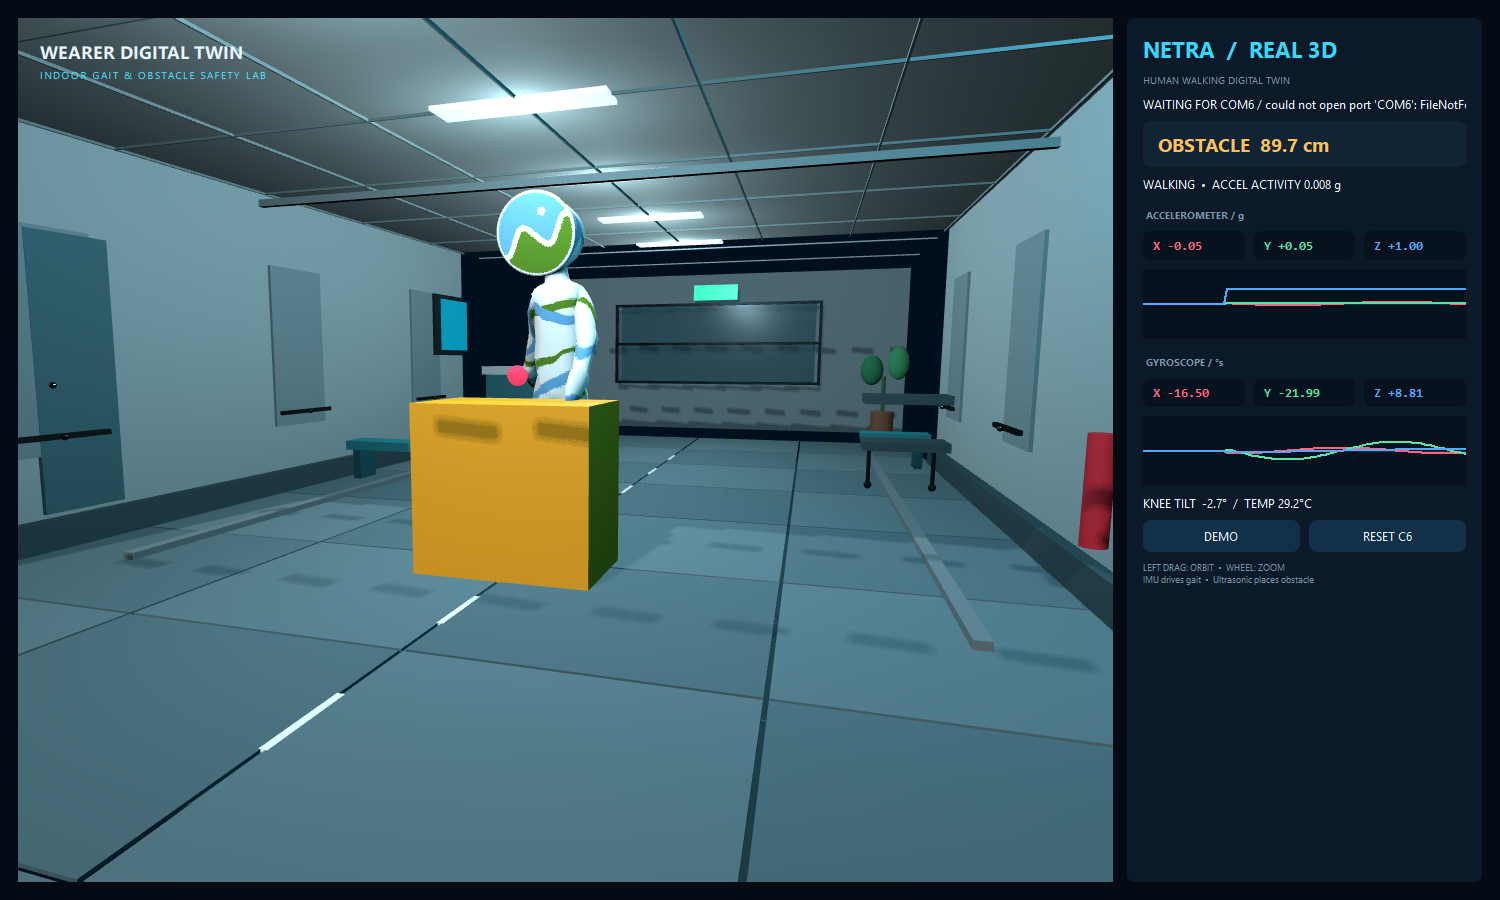
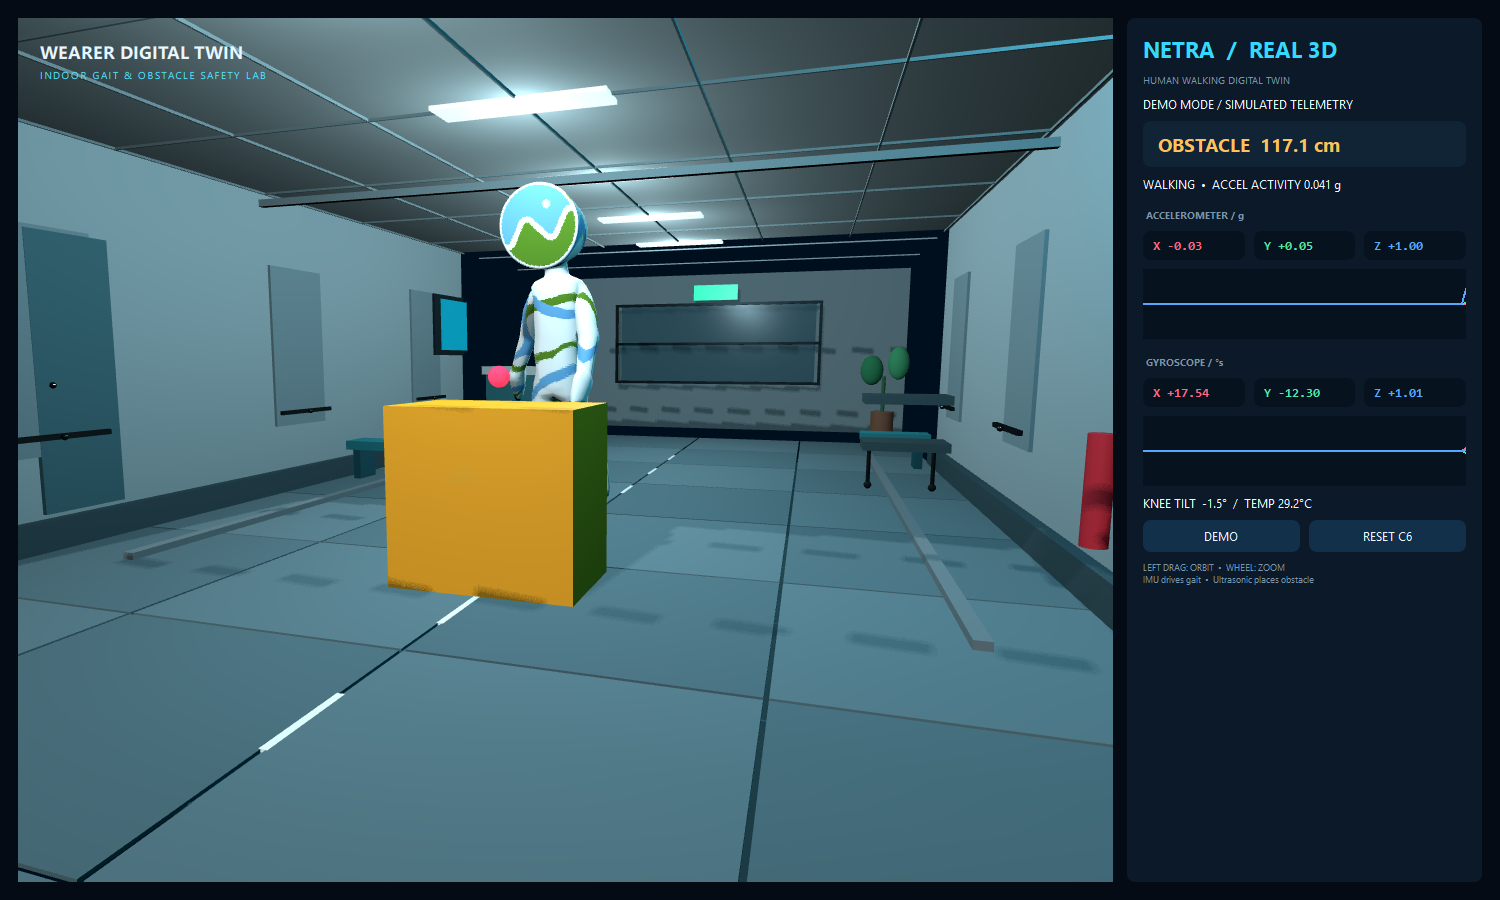
Document NETRA debugger workflow

diff --git a/README.md b/README.md
@@ -25,6 +25,66 @@ Desktop tooling for viewing NETRA obstacle range, IMU motion, sensor health, and
 
 ![NETRA PySide6 3D debugger](docs/images/netra-debugger.png)
 
+The main window combines the live wearer model and indoor obstacle scene with the
+sensor dashboard. **Demo mode** is shown above, so the interface can be explored
+without connecting the physical device.
+
+## What the application does
+
+NETRA System Debugger reads the firmware's serial telemetry and turns it into a
+live, local visualization of the wearable device:
+
+1. **Receives sensor data** from the ESP32-C6 over USB serial at 115200 baud.
+2. **Measures forward clearance** using the HC-SR04 distance value and places the
+   detected obstacle in the 3D scene at the measured range.
+3. **Detects wearer movement** from MPU6050 acceleration changes. Gravity is
+   filtered from the motion estimate, which helps distinguish movement from a
+   stationary sensor and drives the digital twin's walking animation.
+4. **Tracks orientation locally** by calculating knee tilt from the IMU axes. The
+   movement stays inside the closed, local debugger loop; it is not GPS or cloud
+   location tracking.
+5. **Plots live telemetry** so acceleration, rotation, temperature, sensor health,
+   and changes over time can be inspected while testing the device.
+
+### Obstacle states
+
+<table>
+  <tr>
+    <td width="50%" align="center">
+      <img src="docs/images/netra-danger-alert.png" alt="NETRA danger alert at 38 centimetres"><br>
+      <strong>Critical obstacle</strong><br>
+      A valid distance below 60 cm changes the warning and 3D obstacle to red.
+    </td>
+    <td width="50%" align="center">
+      <img src="docs/images/netra-path-clear.png" alt="NETRA path clear scanning state"><br>
+      <strong>Path clear / scanning</strong><br>
+      With no valid range echo, the obstacle is hidden while IMU movement tracking continues.
+    </td>
+  </tr>
+</table>
+
+### Telemetry panel
+
+<p align="center">
+  <img src="docs/images/netra-telemetry-panel.png" alt="NETRA live telemetry panel" width="38%">
+</p>
+
+| Display | Meaning |
+|---|---|
+| Connection line | Active COM port, connection state, or simulated demo source |
+| Obstacle banner | Measured clearance and the current normal/danger state |
+| Wearer motion | Standing/walking classification and filtered acceleration activity |
+| Accelerometer | Live X, Y, and Z acceleration in `g`, plus a scrolling trace |
+| Gyroscope | Live X, Y, and Z angular velocity in degrees per second, plus a scrolling trace |
+| Knee tilt / temperature | Calculated wearable orientation and MPU6050 temperature |
+| **DEMO** | Toggles simulated telemetry for testing without hardware |
+| **RESET C6** | Requests a reset of the connected ESP32-C6 serial device |
+
+> [!NOTE]
+> The displayed distance, motion, and orientation information is intended for
+> prototype development and debugging. NETRA V1 is not a certified medical or
+> safety device.
+
 <p align="center">
   <img src="docs/images/netra-device-front.jpg" alt="NETRA device front view" width="48%">
   <img src="docs/images/netra-device-angle.jpg" alt="NETRA device angled view" width="48%">
